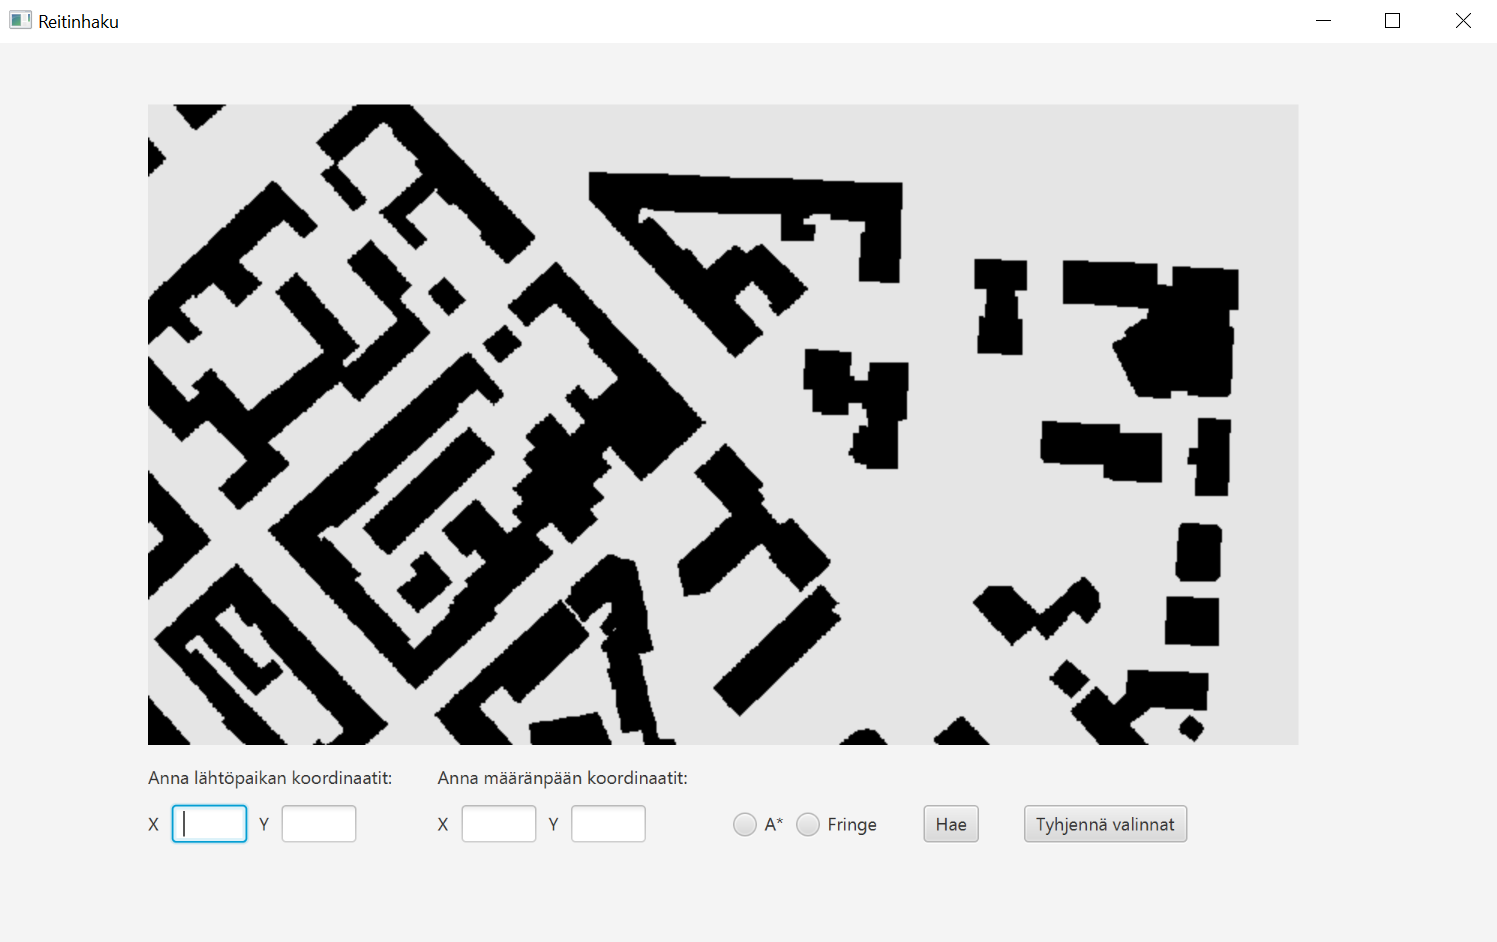
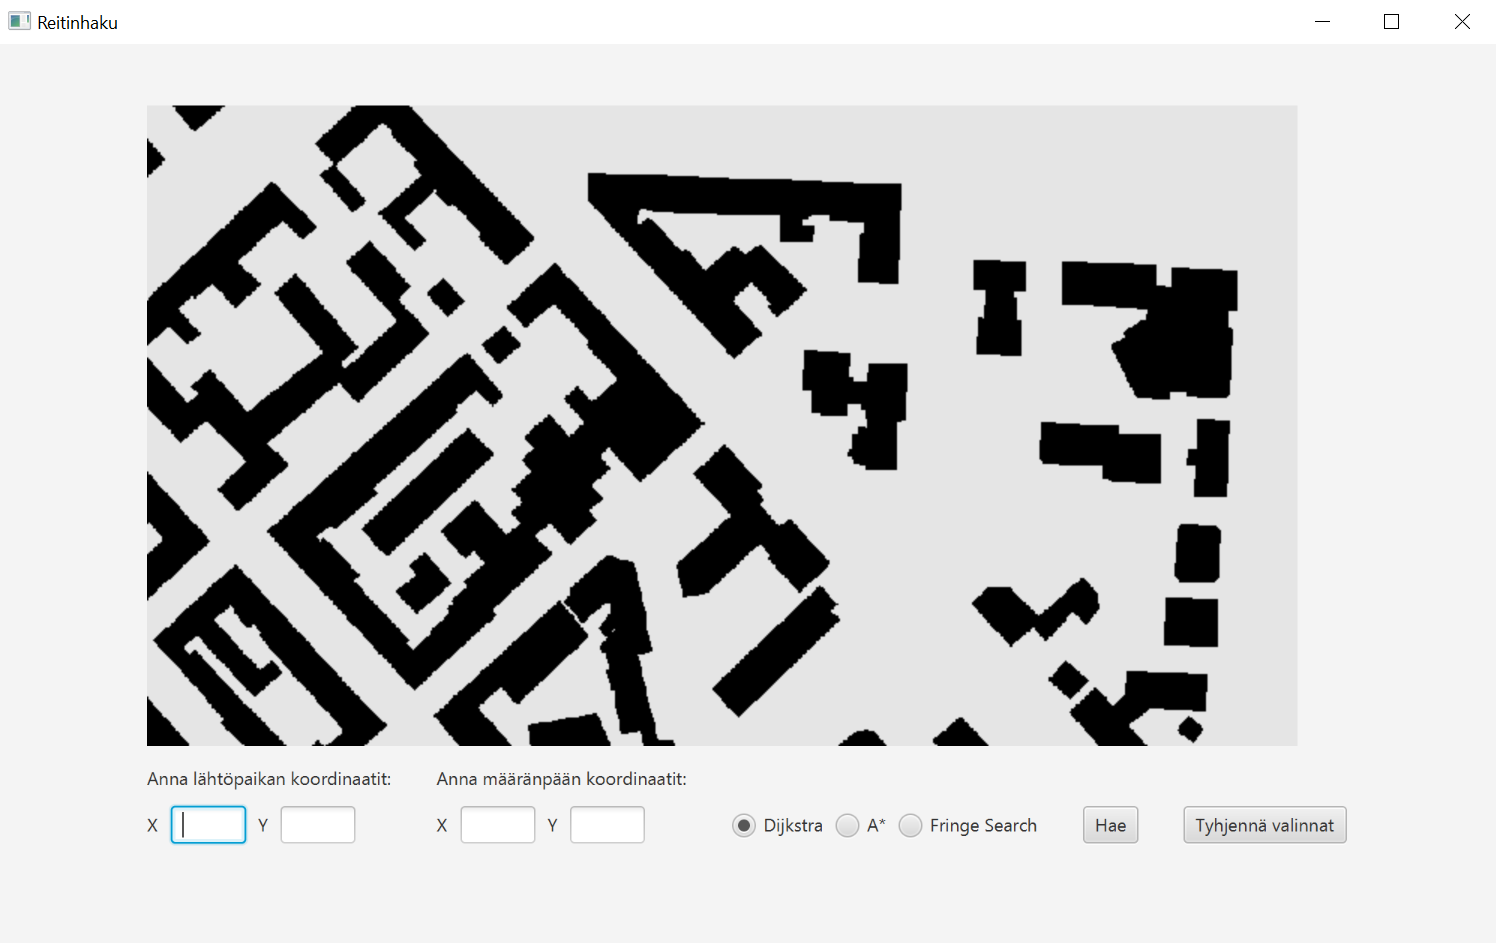
kuvia lisätty

diff --git a/Dokumentaatio/Kayttohje.md b/Dokumentaatio/Kayttohje.md
@@ -1,10 +1,14 @@
 # Käyttöohje
 
+
+## Reitinhaun käyttö
+
 Ohjelma avautuu graafiseen käyttöliittymään, jossa on kartta. Lyhimmän reitin hakua voi kokeilla
 joko klikkaamalla alku- ja päätepisteen kartalta tai syöttämällä niiden koordinaatit 
-tekstikenttiin. Koordinaatit annetaan kokonaislukuina. Haluttu hakualgoritmi (Dijkstra, A* tai xxxxx) 
+tekstikenttiin. Koordinaatit annetaan kokonaislukuina. Haluttu hakualgoritmi (Dijkstra, A* tai Fringe Search)
 valitaan nappia painamalla, ja haku käynnistyy Hae-nappia painamalla. Algoritmin löytämä lyhin reitti 
-piirtyy kartalle punaisena.
+piirtyy kartalle punaisena. Karttaan värittyvät myös kaikki ne ruudut, joissa algoritmi käy reitinhaun aikana.
+Reitinhakuun kulunut aika tulee näkyviin algoritmin valintanappien alle.
 
 <img src="https://raw.githubusercontent.com/mlkulmala/TiLa-reitinhaku/master/Dokumentaatio/kuvat/aloitusnakyma.png" width="600">
 
